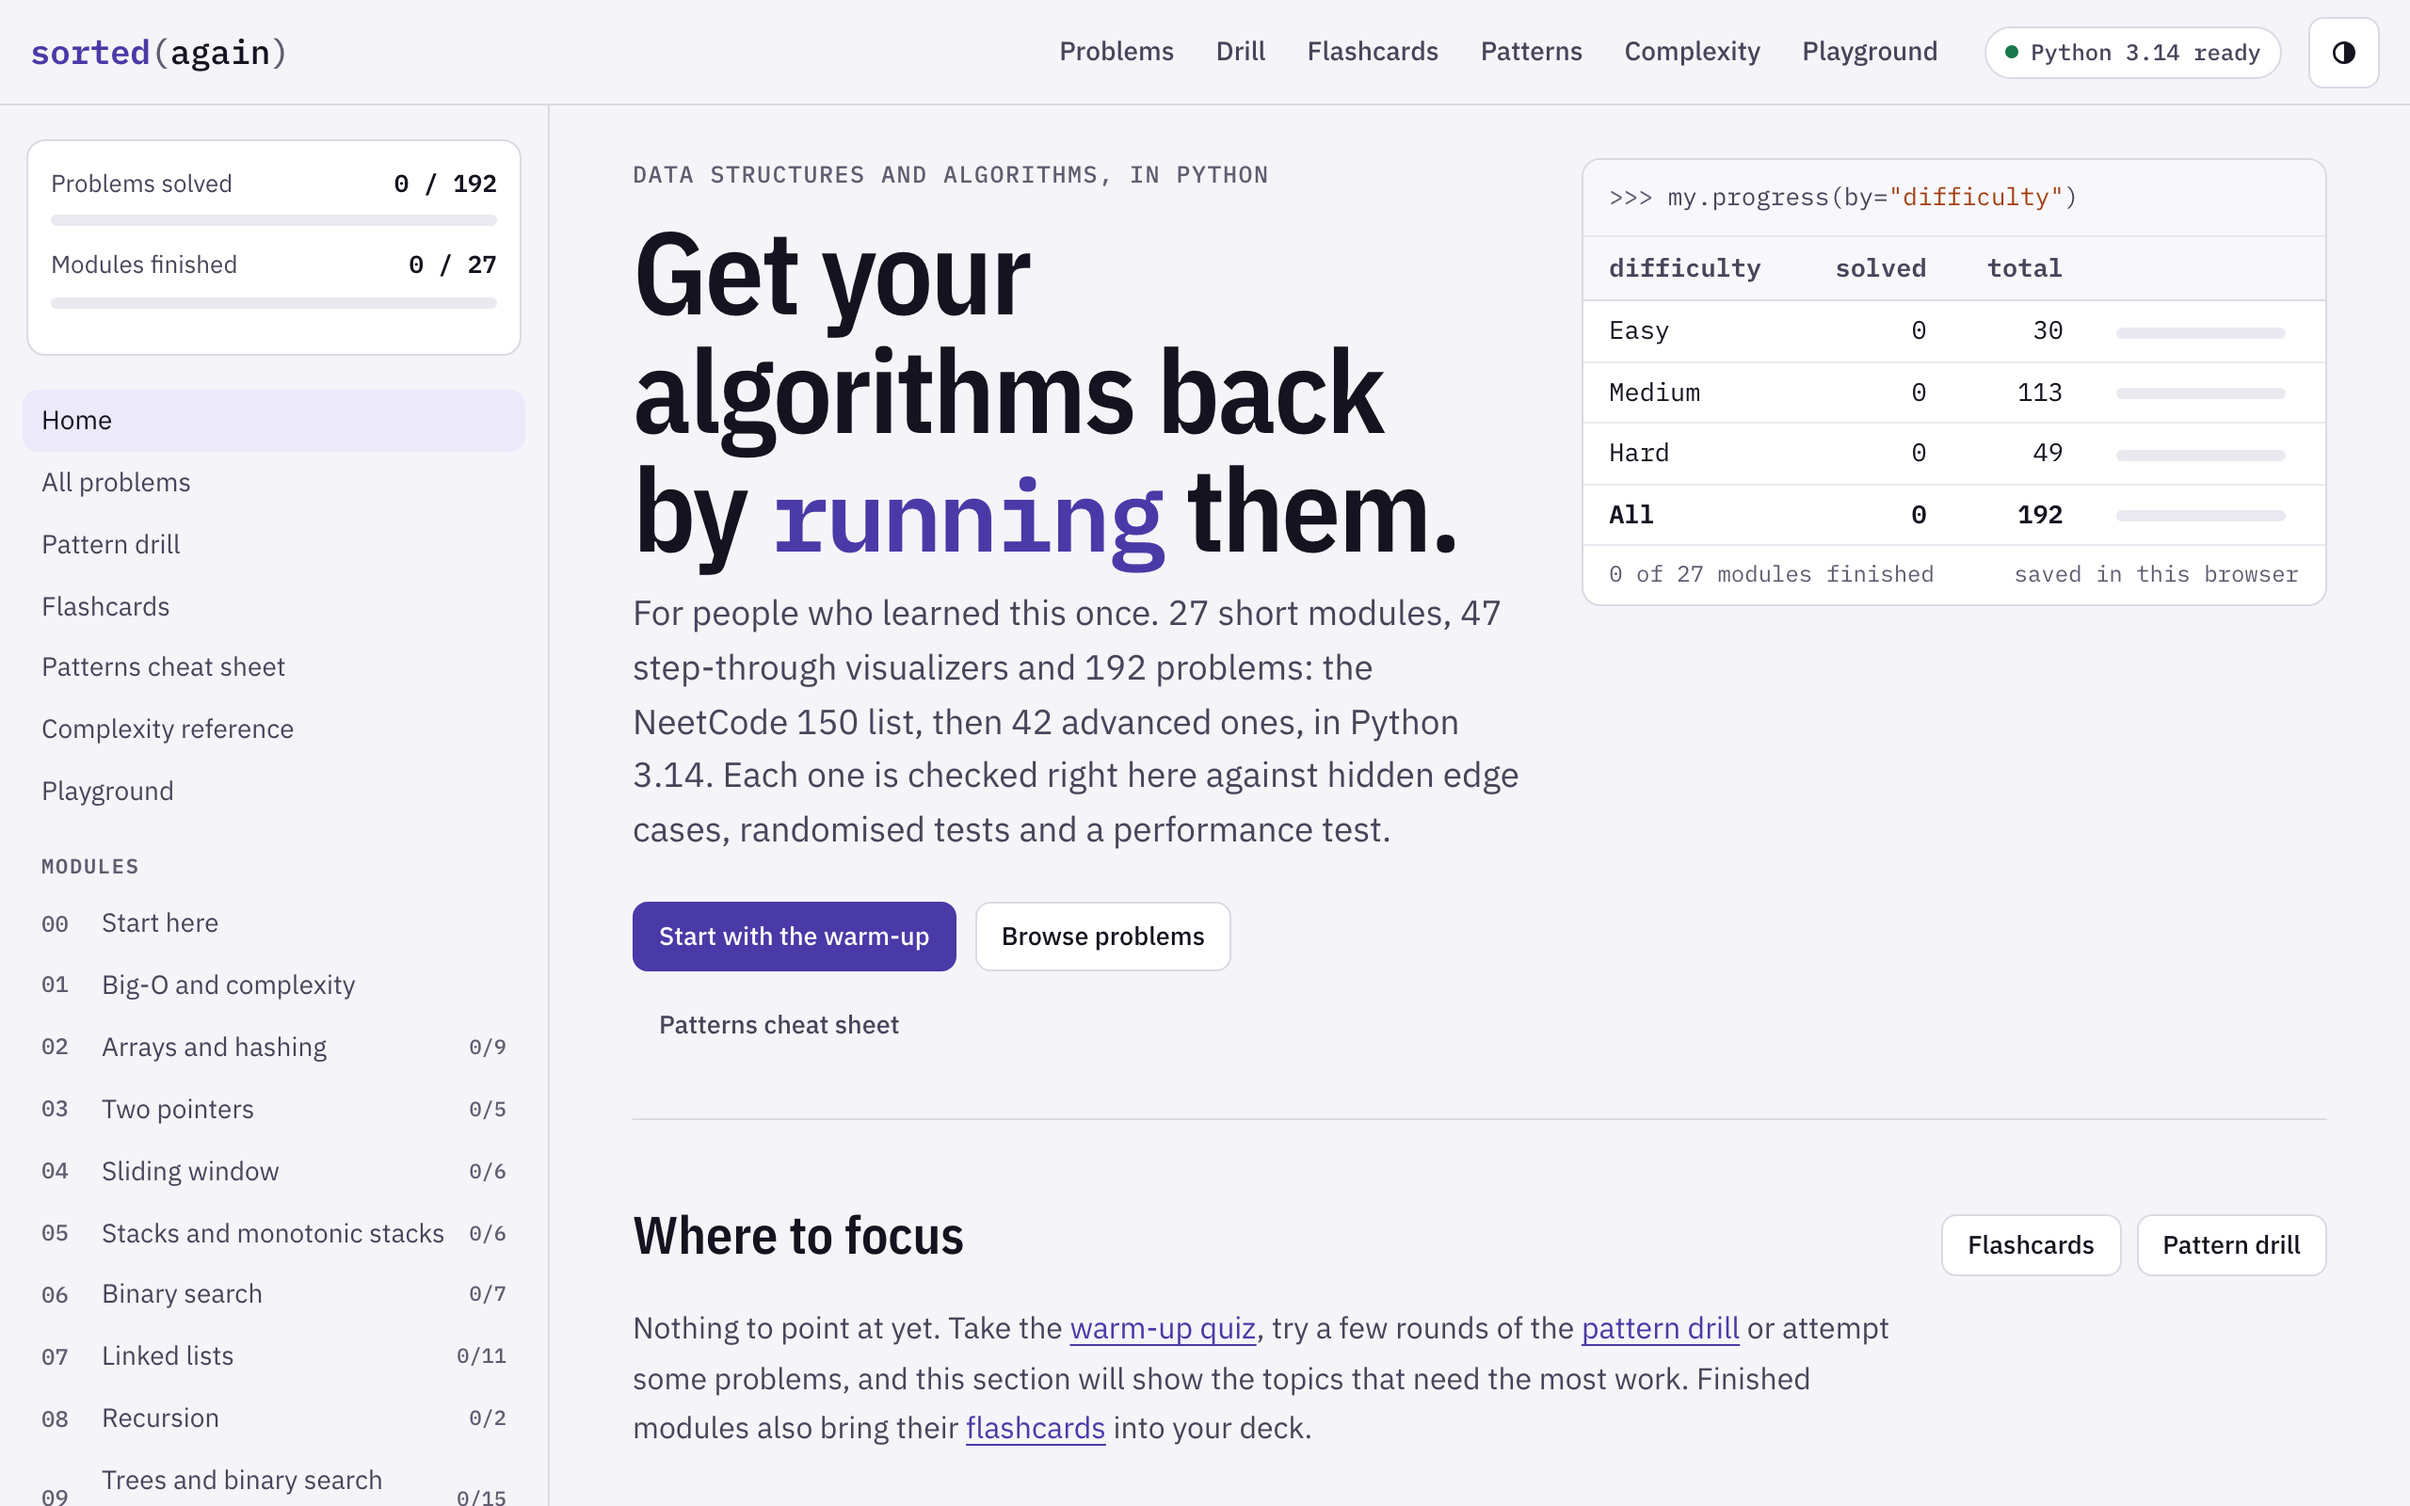
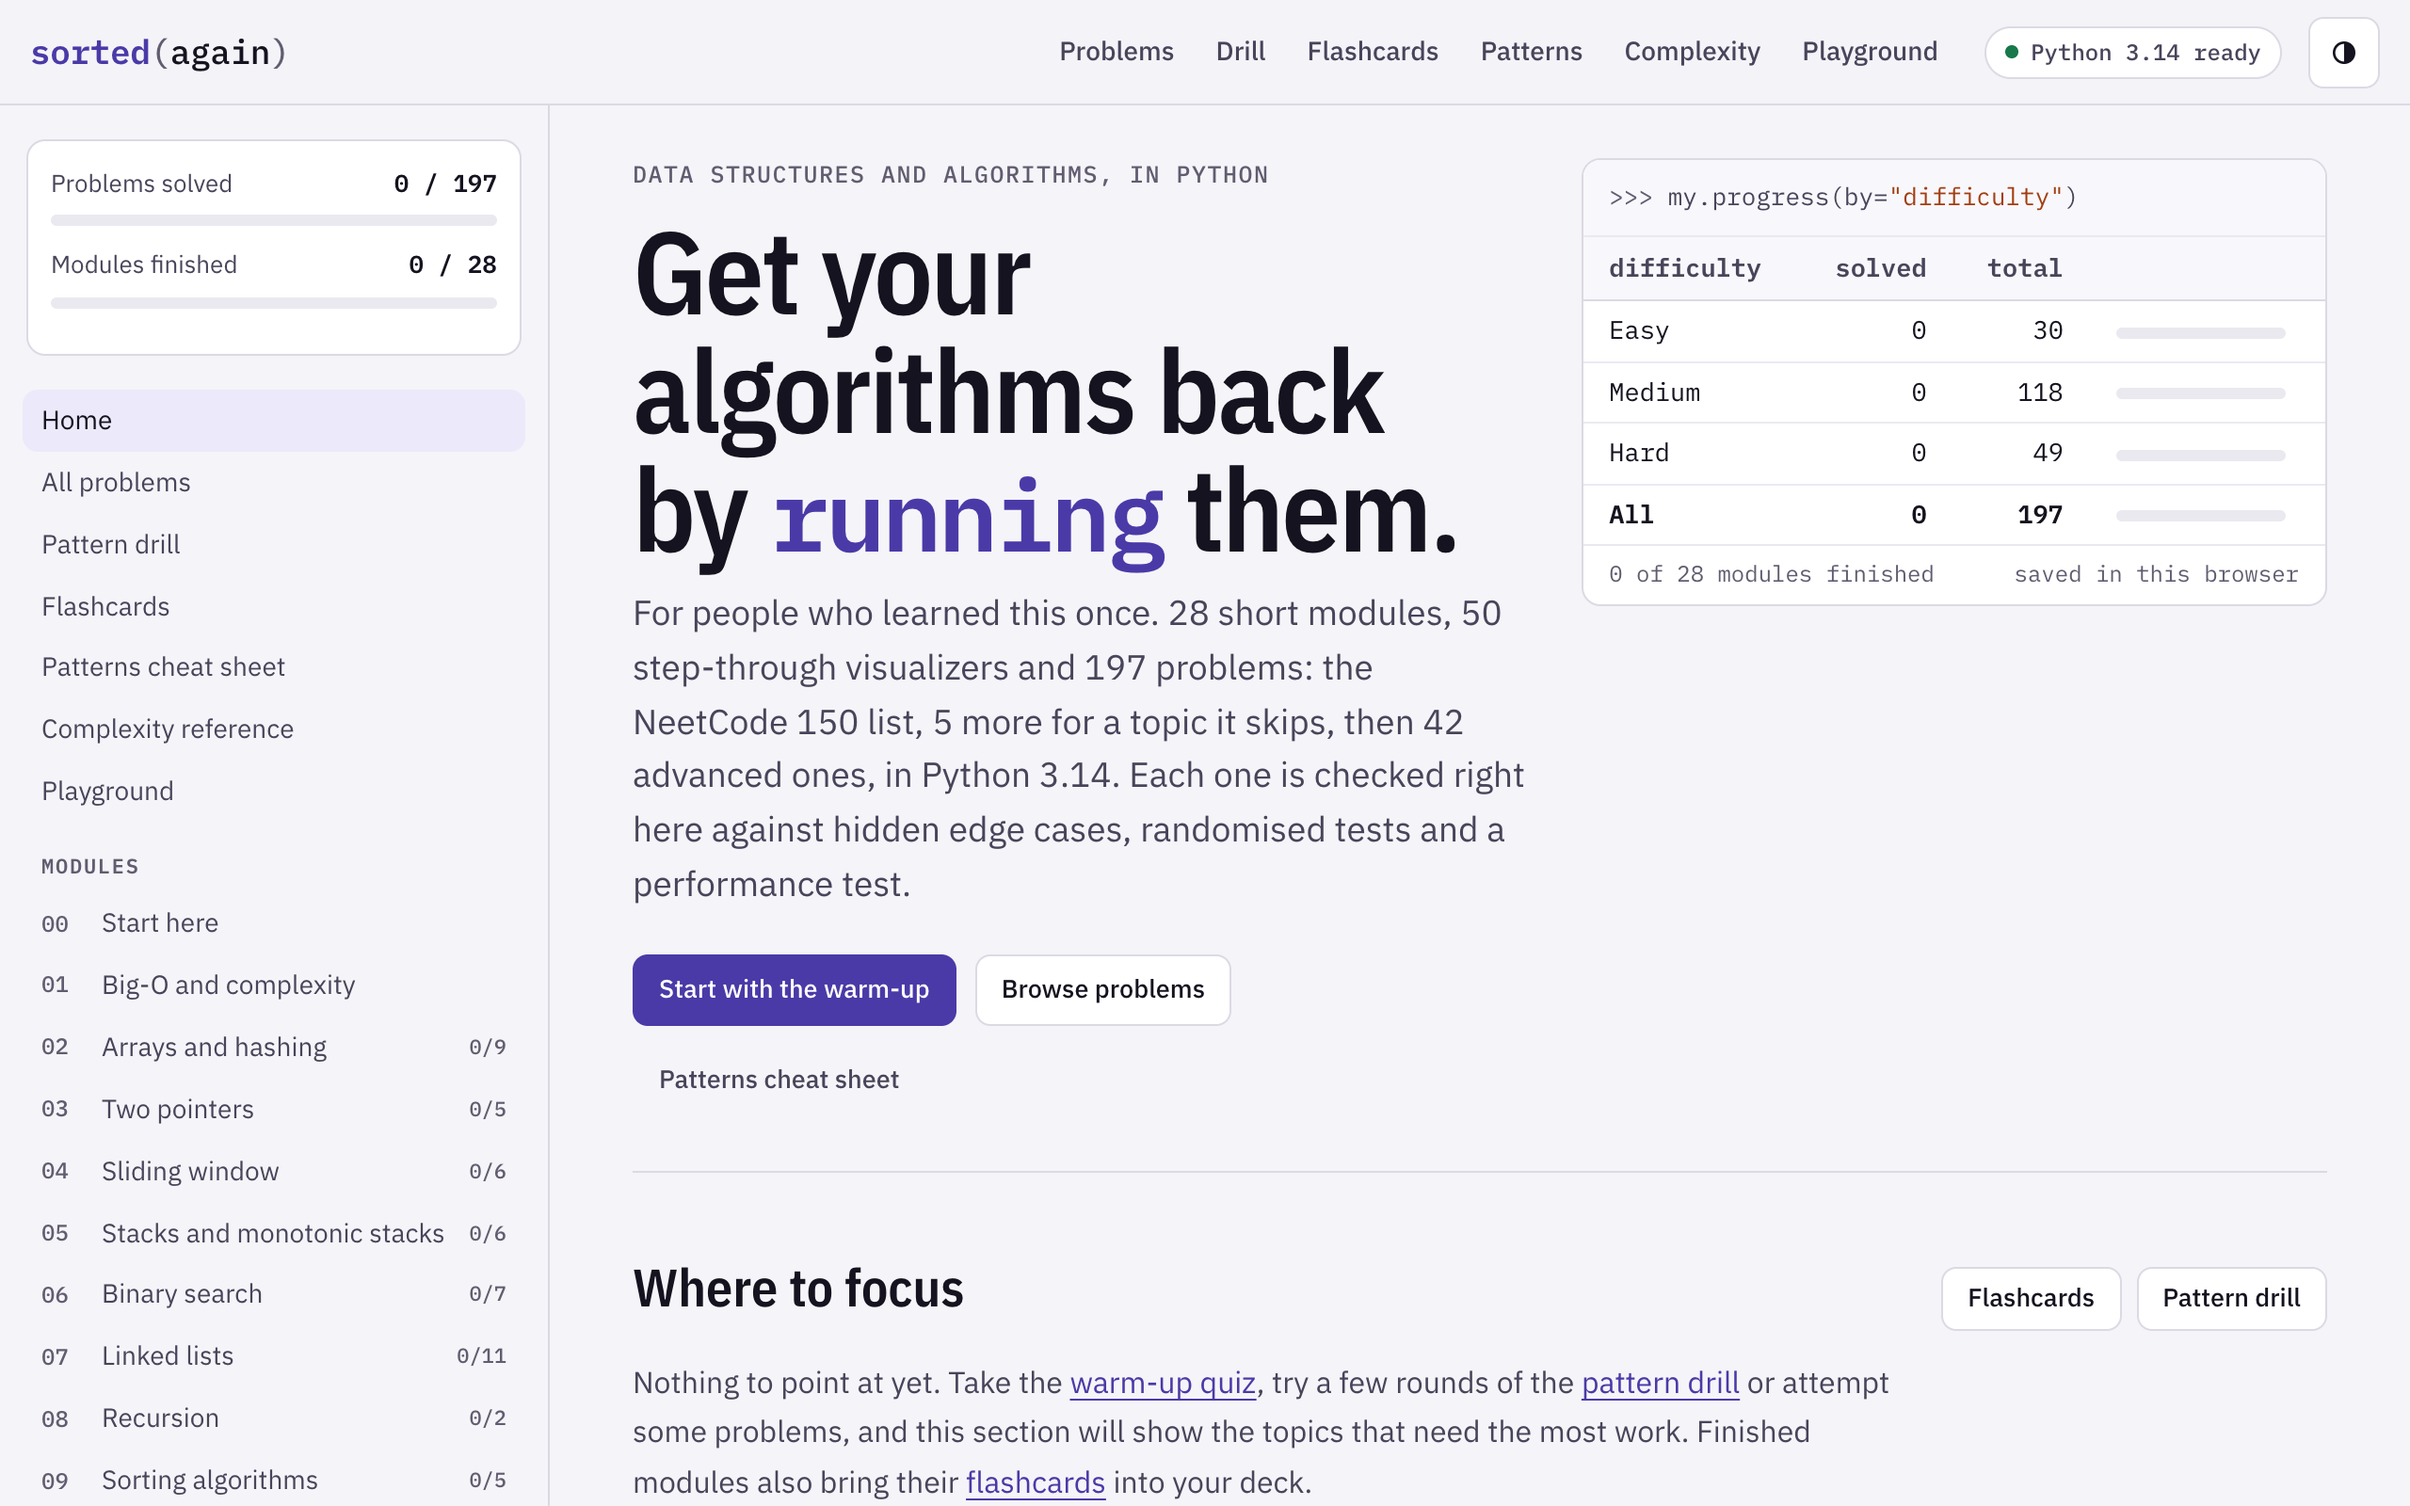
Update the README for the sorting module
Mention that the core modules add sorting algorithms to the NeetCode 150's
topics, list sorting among the visualizers, credit the 5 extra problems,
and retake the home page screenshot (28 modules, 197 problems).

diff --git a/README.md b/README.md
@@ -10,10 +10,10 @@ It's one HTML page. Python 3.14 runs inside it (through Pyodide), so there's not
 
 ## What's inside
 
-- **28 modules.** 20 core modules that cover the NeetCode 150, then an advanced part of 8 for companies that ask Hard problems.
+- **28 modules.** 20 core modules that cover the NeetCode 150's topics, plus sorting algorithms, which it skips. Then an advanced part of 8 for companies that ask Hard problems.
 - **197 problems.** The NeetCode 150 (with the Blind 75 marked), 5 more for the sorting module, and 42 advanced ones. Each has its own description and tests, starter code, **Run** on the examples and **Check** against hidden edge cases, randomized tests and a performance test. Your code runs in a Web Worker, so an infinite loop times out instead of freezing the page.
 - **Hints** that open one at a time, a **reference solution** with its complexity, **alternatives** from brute force to optimal, and **common wrong answers** you can run to see exactly how they fail.
-- **50 step-through visualizers**: pointers moving, stacks and heaps changing, trees and graphs being walked, DP tables filling in. You can trace them on your own input.
+- **50 step-through visualizers**: pointers moving, lists being sorted and merged, stacks and heaps changing, trees and graphs being walked, DP tables filling in. You can trace them on your own input.
 - **Quizzes** for every module, a **pattern drill**, **flashcards** with spaced repetition, a **patterns cheat sheet**, a **complexity reference** and a **playground**.
 - Light and dark themes, readable contrast (WCAG AA), and a phone layout.
 
@@ -78,6 +78,6 @@ Third-party software and fonts are listed in [THIRD-PARTY-NOTICES.md](THIRD-PART
 
 ## Credits
 
-Made by [hossam-04](https://github.com/hossam-04). Python in the browser by [Pyodide](https://pyodide.org). The problem list follows [NeetCode 150](https://neetcode.io/practice). Every problem links to LeetCode, but all descriptions, examples and tests here are original. Sorted Again isn't affiliated with LeetCode or NeetCode.
+Made by [hossam-04](https://github.com/hossam-04). Python in the browser by [Pyodide](https://pyodide.org). The problem list follows [NeetCode 150](https://neetcode.io/practice), with 5 more for the sorting module. Every problem links to LeetCode, but all descriptions, examples and tests here are original. Sorted Again isn't affiliated with LeetCode or NeetCode.
 
 Its companion is [SELECT Again](https://github.com/hossam-04/select-again), the same idea for SQL. Both fit into [The Engineer's Syllabus](https://github.com/hossam-04/engineers-syllabus).
